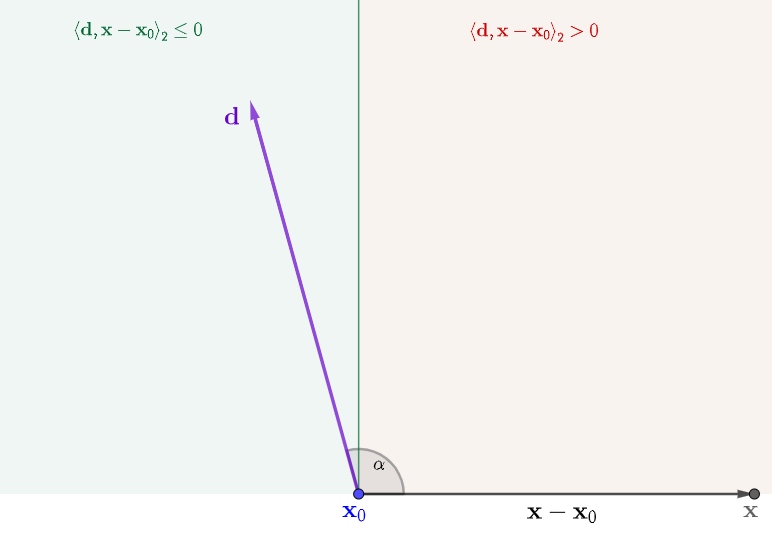
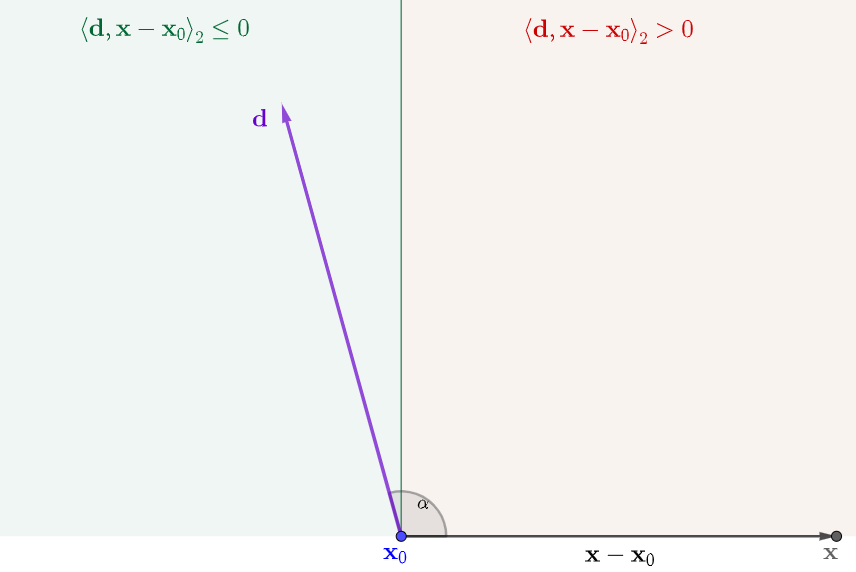
Built site for gh-pages

diff --git a/CAPITULO_1/A1_intro_optimizacion.html b/CAPITULO_1/A1_intro_optimizacion.html
@@ -617,7 +617,7 @@ b^{\star}
 \]</span></p>
 <p><br></p>
 <p>En Python, podemos resolver problemas de mínimos cuadrados con la función <a href="https://numpy.org/doc/stable/reference/generated/numpy.linalg.lstsq.html"><code>numpy.linalg.lstsq</code></a>.</p>
-<div id="c396122a" class="cell" data-execution_count="1">
+<div id="ec2e97ff" class="cell" data-execution_count="1">
 <div class="sourceCode cell-code" id="cb1"><pre class="sourceCode python code-with-copy"><code class="sourceCode python"><span id="cb1-1"><a href="#cb1-1" aria-hidden="true" tabindex="-1"></a><span class="im">import</span> numpy <span class="im">as</span> np</span>
 <span id="cb1-2"><a href="#cb1-2" aria-hidden="true" tabindex="-1"></a></span>
 <span id="cb1-3"><a href="#cb1-3" aria-hidden="true" tabindex="-1"></a><span class="co"># Datos:</span></span>
@@ -724,7 +724,7 @@ Mostrar detalles
 <p>La relación geométrica en este ejemplo no es casual: en programación lineal, el óptimo (si existe) se alcanza siempre en alguno de los vértices de la región factible. Este hecho constituye la base del método del simplex y de otros algoritmos clásicos.</p>
 <p><br></p>
 <p>En Python, se pueden resolver problemas de este tipo utilizando <a href="https://docs.scipy.org/doc/scipy/reference/generated/scipy.optimize.linprog.html"><code>scipy.optimize.linprog</code></a>.</p>
-<div id="98cf1073" class="cell" data-execution_count="2">
+<div id="fc5d8ac0" class="cell" data-execution_count="2">
 <div class="sourceCode cell-code" id="cb3"><pre class="sourceCode python code-with-copy"><code class="sourceCode python"><span id="cb3-1"><a href="#cb3-1" aria-hidden="true" tabindex="-1"></a><span class="im">from</span> scipy.optimize <span class="im">import</span> linprog</span>
 <span id="cb3-2"><a href="#cb3-2" aria-hidden="true" tabindex="-1"></a></span>
 <span id="cb3-3"><a href="#cb3-3" aria-hidden="true" tabindex="-1"></a><span class="co"># Coeficientes de la función objetivo (negativos porque linprog minimiza):</span></span>
@@ -764,11 +764,11 @@ Formule el siguiente problema y resuélvalo geométricamente. Luego, verifique s
 
 Una nutricionista debe diseñar una dieta usando dos alimentos, A y B. El alimento A cuesta $2 por unidad y contiene 3g de proteína y 1g de carbohidratos por unidad. El alimento B cuesta $3 por unidad y contiene 2g de proteína y 2g de carbohidratos por unidad. La dieta debe contener al menos 60g de proteína y 30g de carbohidratos. ¿Cuántas unidades de cada alimento debe incluir para minimizar el costo?
 
-```ehlbbvreizuhxqkw
+```amcnjnzhodtgmdxh
 # Grafique aquí.
 ``` 
 
-```ehlbbvreizuhxqkw
+```amcnjnzhodtgmdxh
 # Verifique la solución aquí.
 ``` 
 

diff --git a/CAPITULO_1/A2_optimizacion_convexa.html b/CAPITULO_1/A2_optimizacion_convexa.html
@@ -792,7 +792,7 @@ S_2:=\{(x,y)\in\RR^2\mid x^2+y^2\leq r\}.
 <div style="margin-top:2em;">
 
 </div>
-<div id="a3405376" class="cell" data-execution_count="1">
+<div id="85e603d5" class="cell" data-execution_count="1">
 <div class="cell-output cell-output-display">
 <div class="quarto-figure quarto-figure-center">
 <figure class="figure">
@@ -1489,7 +1489,7 @@ f(\xx)=\frac{1}{2}\xx^\top A\xx+\bb^\top\xx+c,
 f(x,y)=\frac{1}{2}\begin{pmatrix}x&amp;y\end{pmatrix}\begin{pmatrix}2&amp;1\\1&amp;3\end{pmatrix}\begin{pmatrix}x\\ y\end{pmatrix}=\frac{1}{2}(2x^2+2xy+3y^2)
 \]</span></p>
 <p>es convexa, ya que <span class="math inline">\(\xx^\top A\xx=2x^2+2xy+3y^2=x^2+(x+y)^2+2y^2\geq 0\)</span> para todo <span class="math inline">\((x,y)\in\RR^2\)</span>, lo cual significa que <span class="math inline">\(A\succeq 0\)</span>.</p>
-<div id="44a50e35" class="cell" data-execution_count="2">
+<div id="5ce9ce72" class="cell" data-execution_count="2">
 <details class="code-fold">
 <summary>Mostrar código</summary>
 <div class="sourceCode cell-code" id="cb4"><pre class="sourceCode python code-with-copy"><code class="sourceCode python"><span id="cb4-1"><a href="#cb4-1" aria-hidden="true" tabindex="-1"></a><span class="im">import</span> numpy <span class="im">as</span> np</span>
